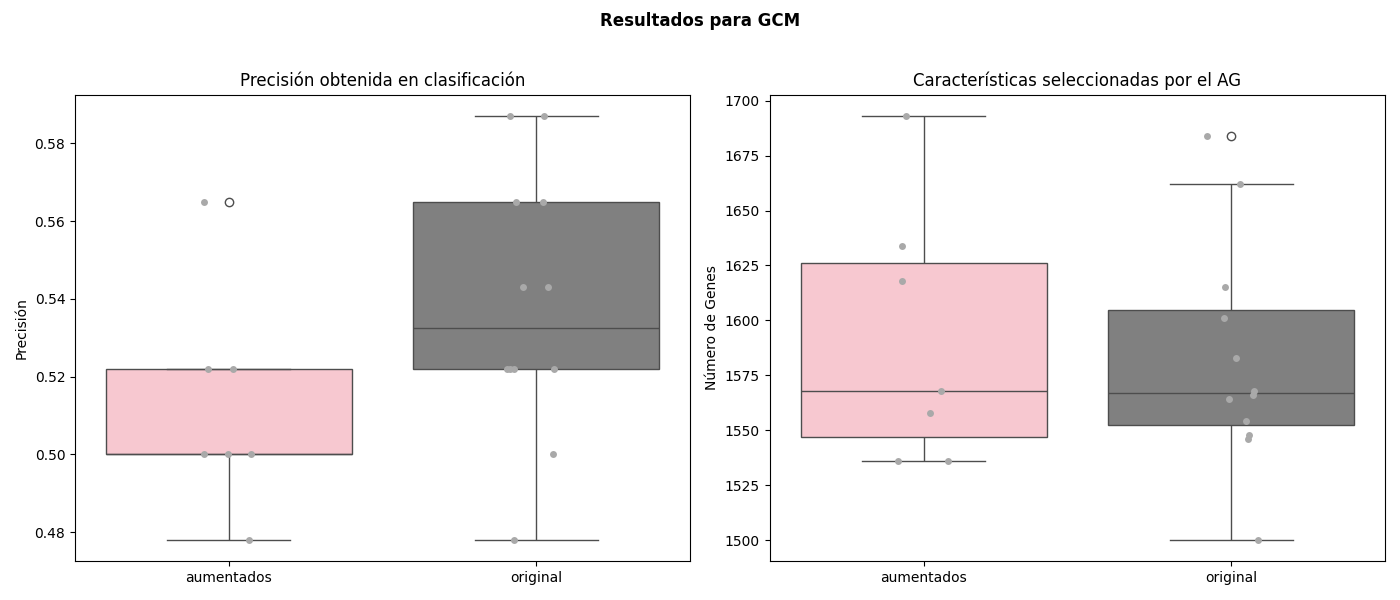
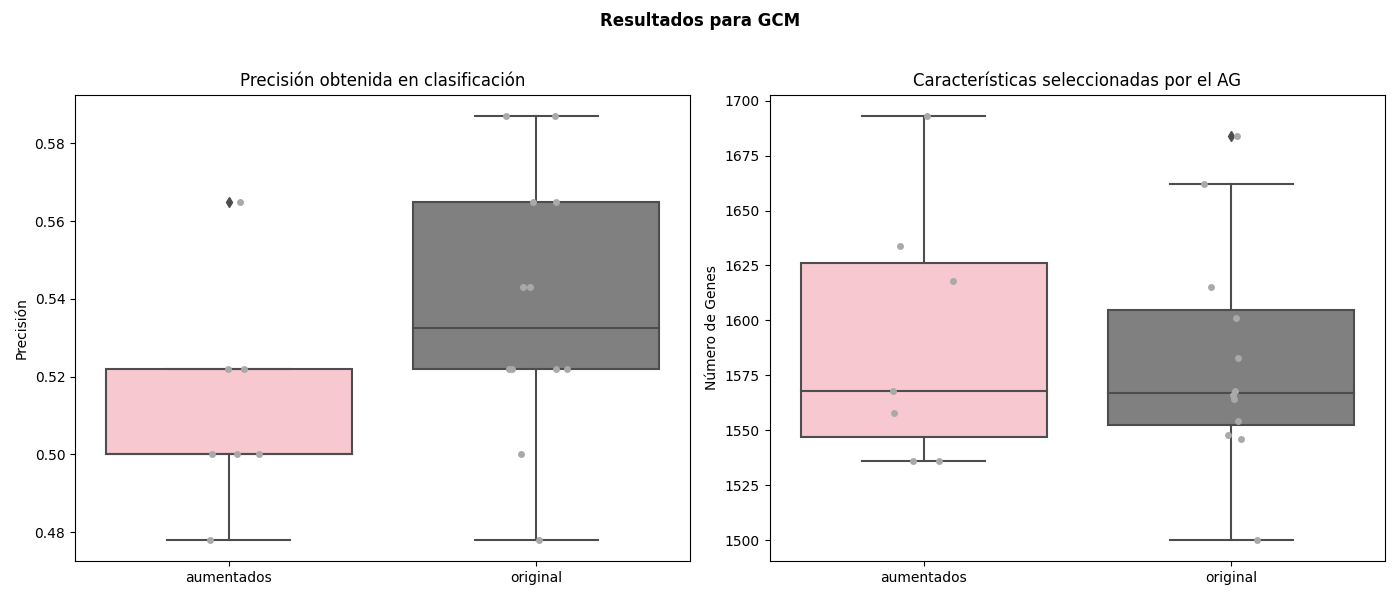
update

diff --git a/utnthesis/graficar_todo_v2.py b/utnthesis/graficar_todo_v2.py
@@ -3,7 +3,7 @@ import matplotlib.pyplot as plt
 import seaborn as sns
 
 # Leer los datos
-data = pd.read_csv('filtered_experiment_data.csv')
+data = pd.read_csv('src/filtered_experiment_data.csv')
 
 # Filtrar los datos para cada dataset y categorizar los experimentos
 leukemia = data[data['experiment_name'].str.contains('leukemia')].copy()
@@ -14,6 +14,13 @@ madelon = data[data['experiment_name'].str.contains('mandelon')].copy()
 madelon['group'] = pd.Categorical(madelon['group'], categories=['aumentados', 'original'], ordered=True)
 gcm = data[data['experiment_name'].str.contains('gcm')].copy()
 gcm['group'] = pd.Categorical(gcm['group'], categories=['aumentados', 'original'], ordered=True)
+
+
+# split Gcm in two dataset where pob_ngenes_avg is greater less that 400 and grater than 400
+gcm_low = gcm[gcm['pob_ngenes_avg'] < 400]
+gcm_high = gcm[gcm['pob_ngenes_avg'] >= 400]
+gcm_low_low = gcm_low[gcm_low['pob_ngenes_avg'] < 100]
+gcm_low_high =gcm_low[gcm_low['pob_ngenes_avg'] >= 100]
 
 # Configuración de la paleta de colores
 custom_palette = {'original': 'gray', 'aumentados': 'pink'}
@@ -46,7 +53,10 @@ def plot_combined(dataset, dataset_name):
 plot_combined(leukemia, 'Leukemia')
 plot_combined(gisette, 'Gisette')
 plot_combined(madelon, 'Madelon')
-plot_combined(gcm, 'GCM')
+plot_combined(gcm_high, 'GCM')
+
+plot_combined(gcm_low_low, 'GCM_45_med')
+plot_combined(gcm_low_high, 'GCM_200_med')
 
 # Gráfico combinado original (pob_accuracy_avg) para los 4 datasets
 fig, axes = plt.subplots(2, 2, figsize=(14, 10))
@@ -76,8 +86,8 @@ axes[1, 0].set_ylabel('')
 axes[1, 0].set_xticks([])  # Remove x-axis labels
 
 # GCM
-sns.boxplot(ax=axes[1, 1], x='group', y='pob_accuracy_avg', data=gcm, palette=custom_palette)
-sns.stripplot(ax=axes[1, 1], x='group', y='pob_accuracy_avg', data=gcm, color='darkgrey', dodge=True)
+sns.boxplot(ax=axes[1, 1], x='group', y='pob_accuracy_avg', data=gcm_high, palette=custom_palette)
+sns.stripplot(ax=axes[1, 1], x='group', y='pob_accuracy_avg', data=gcm_high, color='darkgrey', dodge=True)
 axes[1, 1].set_title('GCM')
 axes[1, 1].set_xlabel('')
 axes[1, 1].set_ylabel('')
@@ -126,8 +136,8 @@ axes[1, 0].set_ylabel('')
 axes[1, 0].set_xticks([])  # Remove x-axis labels
 
 # GCM
-sns.boxplot(ax=axes[1, 1], x='group', y='pob_ngenes_avg', data=gcm, palette=custom_palette)
-sns.stripplot(ax=axes[1, 1], x='group', y='pob_ngenes_avg', data=gcm, color='darkgrey', dodge=True)
+sns.boxplot(ax=axes[1, 1], x='group', y='pob_ngenes_avg', data=gcm_high, palette=custom_palette)
+sns.stripplot(ax=axes[1, 1], x='group', y='pob_ngenes_avg', data=gcm_high, color='darkgrey', dodge=True)
 axes[1, 1].set_title('GCM')
 axes[1, 1].set_xlabel('')
 axes[1, 1].set_ylabel('')
@@ -193,5 +203,5 @@ plt.xlabel('Numero de características - grupo de experimento')
 plt.ylabel('Precisión')
 plt.tight_layout(rect=[0, 0.2, 1, 0.95])  # Adjust the bottom margin
 plt.xticks(rotation=45)
-plt.savefig('boxplot_gcm_ngenes_precision.png')
+plt.savefig('boxplot_gcm_ngenes_accuracy.png')
 plt.show()

diff --git a/utnthesis/analisis_1.py b/utnthesis/analisis_1.py
@@ -6,11 +6,15 @@ from scipy.stats import ttest_ind
 data = pd.read_csv('src/filtered_experiment_data.csv')
 
 # Ajuste del filtro para 'Madelon'
+data
+
+
 datasets = {
     'Leukemia': data[data['experiment_name'].str.contains('leukemia')].copy(),
     'Gisette': data[data['experiment_name'].str.contains('gisette')].copy(),
     'Madelon': data[data['experiment_name'].str.contains('mandelon')].copy(),
-    'GCM': data[data['experiment_name'].str.contains('gcm')].copy(),
+    # gcm_high = gcm[gcm['pob_ngenes_avg'] >= 400]
+    'GCM': data[(data['experiment_name'].str.contains('gcm')) & (data['pob_ngenes_avg'] >= 400)].copy(),
 }
 
 # Configurar la categoría 'group' para cada dataset

diff --git a/draft_notes_code/cap_4_experiments.md b/draft_notes_code/cap_4_experiments.md
@@ -113,7 +113,21 @@ El conjunto de datos *GCM* representa un desafío aún mayor que los anteriores 
 
 El proceso de experimentación en GCM estuvo dividido en dos partes. En la primera parte, se realizaron experimentos exploratorios con diferentes configuraciones del AVC y el AG. El objetivo de esta etapa fue establecer una línea base para evaluar la efectividad de la aumentación de datos. En la segunda parte, se realizaron ajustes en la metodología, el modelo de AVC y el diseño de la integración AVC-AG. Esta vez, el objetivo era mejorar la calidad de los datos sintéticos y la eficiencia de la selección de características.
 
-Al enfrentarnos a GCM asumíamos que la generación sintética de muestras y ulterior proceso de selección de características plantearía un desafío significativo al AG debido a la complejidad del dataset. La calidad de reconstrucción lograda en los datos  sintéticos generados por el AVC presentado en el Capítulo 2, aunque capaz de preservar la estructura subyacente del conjuntos de datos de GCM, no permitía suponer una mejora significativa en la precisión de la clasificación con un AG. Por ello, esperabamos que los experimentos con datos aumentados presentaran resultados mixtos, con posibles mejoras en la estabilidad de la selección de características, pero sin mejoras significativa en la precisión. 
+Aunque se realizaron una gran cantidad de experimentos (algunos exploratorios y otros más específicos), nos centraremos en los resultados de la primera y segunda parte, que nos permitieron identificar los desafíos y oportunidades en la utilización de AVs en conjuntos de datos complejos como GCM.
+
+La cantidad de muestras sintéticas generadas en los experimentos fue ajustada a lo largo de las pruebas, conforme se exploraban opciones de mejora. Ello dio lugar a la siguiente tabla de experimentos por cantidad de muestras analizadas, donde la primera fila representa la cantidad experimentos con las muestras originales (sin aumentación):
+
+| n_muestras        | cantidad_experimentos |
+|-------------------|-----------------------|
+| 133               | 20                    |
+| 3129              | 15                    |
+| 1322              | 4                     |
+| 1323              | 4                     |
+| 1304              | 2                     |
+| 254               | 2                     |
+| 6106              | 1                     |
+
+Al enfrentarnos a GCM asumíamos que la generación sintética de muestras y ulterior proceso de selección de características plantearía un desafío significativo al AG debido a la complejidad del dataset. La calidad de reconstrucción lograda en los datos  sintéticos generados por el AVC presentado en el Capítulo 2, aunque capaz de preservar la estructura subyacente del conjuntos de datos de GCM, no permitía suponer una mejora significativa en la precisión de la clasificación con un AG. Por otro lado, el desbalance que tienen las clases en GCM, determinaba que la calidad de reconstrucción de las clases minoritarias fuera menor, lo que podría afectar la capacidad del AG para identificar un subconjunto relevante de características. Por todo ello, esperabamos que los experimentos con datos aumentados presentaran resultados mixtos, con posibles mejoras en la estabilidad de la selección de características, pero sin mejoras significativa en la precisión. 
 
 Respecto de los recursos de hardware utilizados, dado que la aumentación de datos requeriría un poder de cómputo proporcional a al tamaño del dataset por la cantidad de muestras sintéticas generadas, se optó por utilizar un entorno en la nube para ejecutar los experimentos de manera eficiente. Para este propósito, se trabajó con una máquina virtual en Google Cloud Platform con 8 vCPUs y 30 GB de RAM.
 
@@ -159,38 +173,21 @@ Como resultado de esta primera etapa de experimentos se identificó una dificult
 | **Macro avg**  | 1.00      | 1.00   | 1.00     | 420     |
 | **Weighted avg** | 1.00      | 1.00   | 1.00     | 420     |
 
-Estos resultados sugieren que el MLP fue capaz de aprender correctamente la estructura de los datos sintéticos, lo que se tradujo en una precisión del 100% en la clasificación, sin embargo, el mismo modelo evaluado en los datos de test originales arrojó una precisión de 0.5. Esta discrepancia sugiere que la distribución de probabilidad de los datos sintéticos no es representativa de la que caracteriza a los datos reales, lo que limita la capacidad del AG para identificar un subconjunto relevante de características, y explica las razones de los resultados obtenidos en los experimentos.
+Estos resultados sugieren que el MLP fue capaz de aprender correctamente la estructura de los datos sintéticos, lo que se tradujo en una precisión del 100% en la clasificación, sin embargo, el mismo modelo evaluado en los datos de test originales arrojó una precisión de 0.5. Esta discrepancia sugiere que la distribución de probabilidad de los datos sintéticos no es representativa de la que caracteriza a los datos reales, circuanstancia que estaría limitando la capacidad del AG para identificar un subconjunto relevante de características. Esto explicaría las motivos por los cuales los experimentos con datos aumentados no lograron mejorar la precisión de la clasificación.
 
-En este punto, asumimos que un problema importante que tenía nuestro modelo de AVC se vinculaba directamente a la función de pérdida. En efecto, la función de pérdida del modelo, al priorizar la regularización del espacio latente a través de la divergencia KL, puede caer en un subajuste durante el proceso de reconstrucción. Esto significa que el modelo podría enfocarse más en mantener una distribución latente regular y bien distribuida, a expensas de la precisión en la reconstrucción de los datos originales. Esta situación es particularmente problemática cuando los datos presentan relaciones complejas, las cuales siempre son difíciles de modelar, resultando en datos sintéticos que no reflejan adecuadamente la riqueza y diversidad de los datos reales. Ante esta problemática, entendimos que se abrian distintos caminos, entre los cuales se destacan: ajustar los pesos de la divergencia KL y la reconstrucción para que el AVC sea capaz de generar datos que sean representativos de los datos reales, o bien, explorar la aplicación del AVC a un subespacio de características seleccionadas por un AG, lo que podría reducir la complejidad del problema y mejorar la calidad de los datos sintéticos. En la segunda parte de los experimentos, se exploró esta última opción. 
+En este punto, asumimos que un problema importante que tenía nuestro modelo de AVC se explicaba por la función de pérdida. En efecto, dicha función, resulta de la combinación de dos términos: la pérdida de reconstrucción y la divergencia KL. La divergencia KL es una medida de la diferencia entre dos distribuciones de probabilidad, y se utiliza para regularizar el espacio latente y mantenerlo bien distribuido; mientras que la pérdida de reconstrucción mide la diferencia entre los datos originales y los datos reconstruidos. En el caso de GCM, la divergencia KL podría estar dominando la función de pérdida, lo que resultaría en una distribución latente regularizada en exceso, pero no necesariamente representativa de los datos reales. Esto significa que el modelo está produciendo una distribución latente regular y convenientemente discriminada, a expensas de la precisión en la reconstrucción de los datos originales. Situación particularmente problemática cuando los datos presentan relaciones complejas. Ante esta problemática, entendimos que se abrían distintos caminos, entre los cuales se destacan: ajustar los pesos de la divergencia KL y la reconstrucción para que el AVC sea capaz de generar datos que sean representativos de los datos reales, o bien, explorar la aplicación del AVC a un subespacio de características seleccionadas por un AG, lo que podría reducir la complejidad del problema y mejorar la calidad de los datos sintéticos. En la segunda parte de los experimentos, se exploró esta segunda opción. 
 
 ### Metodología Parte 2
 
-Para abordar las limitaciones observadas, se realizaron ajustes en la metodología, como la integración de pesos de clase en la función de pérdida personalizada del AVC y la inclusión de un muestreador aleatorio ponderado en el cargador de datos. Estos ajustes, junto con una subselección inicial de características, mejoraron significativamente los resultados en una serie posterior de experimentos, alcanzando una precisión balanceada superior al 0.65 en algunos casos.
+Para abordar las limitaciones observadas, se realizaron ajustes en distintas configuraciones. En primer lugar, se adaptó la función de pérdida para incluir un factor de peso por clase que permitiera rebalancear el desequilibrio entre las clases. Ello con el fin de penalizar con mayor severidad los errores en las clases minoritarias, y así procurar una representación más fiel de la distribución real de los datos. En segundo lugar, se integró un muestreador aleatorio ponderado en la etapa de entrenamiento del AVC, que permitiría ajustar los lotes de entrenamiento con igual objetivo de mejorar la representación de las clases minoritarias. Finalmente, se ajustó la etapa de inicio del proceso generativo, aplicando el AVC ya no al conjunto de datos completo, sino a un subconjunto de características seleccionadas por un AG. La idea era reducir la complejidad del problema y mejorar la calidad de los datos sintéticos, permitiendo al AVC enfocarse en un espacio de características más reducido y relevante. Veamos esto último en detalle.
 
-Finalmente, en lo estrictamente metodológico, los experimentos con *GCM* fue similares a los anteriores, con la diferencia de que se adoptó un doble proceso de selección de características. Así, el proceso consistió en encadenar una secuencia de AG, AVC y finalmente un AG. El primer AG se encargó de seleccionar un subconjunto inicial de características, que fue utilizado para entrenar un AVC. El AVC generó muestras sintéticas que se integraron con los datos originales para entrenar un segundo AG, que se encargó de seleccionar un subconjunto final de características.
+Como vimos, una de las limitaciones observadas en los experimentos iniciales fue la dificultad del AVC para generar datos sintéticos representativos de la distribución de los datos reales. Por eso asumimos que aplicar el AVC a un subconjunto de características seleccionadas tendría como resultado una simplificación de la distribución de probabilidad original, y por lo tanto una mejora en la calidad de los datos sintéticos. Para ello, se diseñó un flujo de trabajo que partía de un subespacio de características relavantes, y luego procedía a la generación de datos sintéticos con un AVC y la selección de características mediante un AG, tal cual el flujo de trabajo presentado en el Capítulo 3. La definición del subespacio partió de las características más frecuentes encontradas en los experimentos iniciales, donde se trabajó con un cromosoma activo que representaba el 10% de las características totales, al rededor de 1600 genes por cromosoma. A partir de este subconjunto, se aplicó el AVC para la generación de datos sintéticos, y luego se procedió a la selección de características mediante un AG. Este flujo de trabajo iterativo y refinado permitió explorar un espacio de características más reducido y relevante, lo que se tradujo en una mejora significativa en la precisión de la clasificación.
 
-La cantidad de muestras sintéticas generadas fue ajustada a lo largo de los experimentos, conforme se exploraban opciones de mejora. Ello dio lugar a la siguiente tabla de experimentos por cantidad de muestras analizadas, donde la primera fila representa la cantidad de muestras originales:
+### Resultados Parte 2
 
-| n_muestras        | cantidad_experimentos |
-|-------------------|-----------------------|
-| 133               | 20                    |
-| 3129              | 15                    |
-| 1322              | 4                     |
-| 1323              | 4                     |
-| 1304              | 2                     |
-| 254               | 2                     |
-| 6106              | 1                     |
+Estos ajustes, mejoraron significativamente los resultados en una serie posterior de experimentos, alcanzando una precisión balanceada superior al 0.65 en algunos casos.
 
-
-
-El conjunto de datos gcm, que presenta un desafío significativo debido a su alta dimensionalidad y bajo número de muestras, mostró resultados mixtos. La precisión media fue ligeramente superior en los experimentos con datos aumentados (0.517) en comparación con los datos originales (0.467). Sin embargo, la diferencia no fue estadísticamente significativa (p-value: 0.355).
-
-Selección de Características
-El análisis de pob_ngenes_avg mostró que el número promedio de características seleccionadas fue mayor en los datos aumentados (378.477) en comparación con los datos originales (305.160). Esto sugiere que la selección de características fue menos eficiente en los experimentos con datos aumentados.
-
-Interpretación: La mayor cantidad de características seleccionadas en los experimentos con datos aumentados puede indicar que el AG tuvo dificultades para identificar un subconjunto relevante de características cuando se le proporcionaron datos sintéticos que no representaban adecuadamente la estructura original del conjunto de datos. Este resultado destaca la importancia de la calidad de los datos sintéticos en la eficacia de la selección de características.
-
-Interpretación: Estos resultados sugieren que, si bien la aumentación de datos mediante AVs puede enfrentar desafíos significativos en conjuntos de datos complejos como gcm, es posible mejorar la calidad de los datos sintéticos mediante ajustes en la arquitectura del AV y en la metodología de selección de características. La combinación de AVs y AGs en un flujo de trabajo iterativo y refinado demostró ser una estrategia prometedora para mejorar la precisión y la eficiencia en la selección de características.
+ Estos resultados sugieren que, si bien la aumentación de datos mediante AVs puede enfrentar desafíos significativos en conjuntos de datos complejos como gcm, es posible mejorar la calidad de los datos sintéticos mediante ajustes en la arquitectura del AV y en la metodología de selección de características. La combinación de AVs y AGs en un flujo de trabajo iterativo y refinado demostró ser una estrategia prometedora para mejorar la precisión y la eficiencia en la selección de características.
 
 
 
